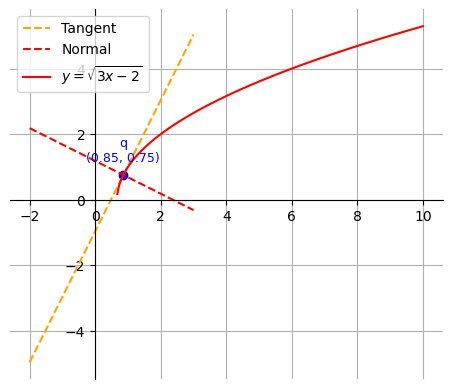
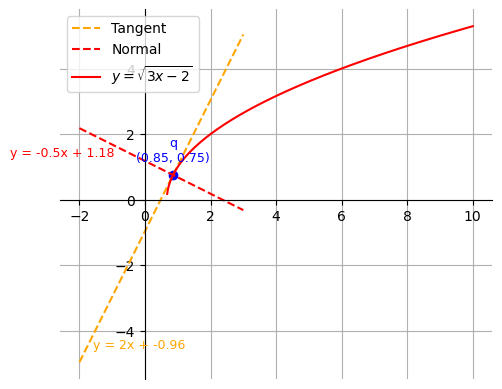
sec

diff --git a/assign15/codes/o1.py b/assign15/codes/o1.py
@@ -31,6 +31,7 @@ B = points[1]
 C = points[2]
 D = points[3]
 q = points[4]
+
 # Setting up the plot
 fig = plt.figure()
 ax = fig.add_subplot(111, aspect='equal')
@@ -47,8 +48,6 @@ def extend_line(point1, point2, factor=2):
     extended_start = point1 - factor * direction
     extended_end = point2 + factor * direction
     return np.array([extended_start, extended_end])
-    
-
 
 # Extend lines
 extended_AB = extend_line(A, B)
@@ -57,8 +56,6 @@ extended_CD = extend_line(C, D)
 # Plot the extended lines with different colors
 plt.plot([extended_AB[0][0], extended_AB[1][0]], [extended_AB[0][1], extended_AB[1][1]], linestyle='--', color='orange', label='Tangent')
 plt.plot([extended_CD[0][0], extended_CD[1][0]], [extended_CD[0][1], extended_CD[1][1]], linestyle='--', color='r', label='Normal')
-
-
 
 # Generate x values for the curve y = sqrt(3x - 2) and extend it to x = 10
 x_curve = np.linspace(0, 10, 400)
@@ -77,6 +74,29 @@ plt.annotate(f'q\n({q[0]:.2f}, {q[1]:.2f})',
              fontsize=9,
              color='blue')
 
+# Add equations for tangent and normal
+tangent_slope = 2  # Replace with the actual slope
+normal_slope = -0.5  # Replace with the actual slope
+tangent_y_intercept = -23.0 / 24.0  # Replace with the actual y-intercept
+normal_y_intercept = 113.0 / 96.0  # Replace with the actual y-intercept
+
+# Annotate tangent line equation
+tangent_eq = f'y = {tangent_slope}x + {tangent_y_intercept:.2f}'
+plt.annotate(tangent_eq,
+             xy=(extended_AB[0][0], tangent_slope * extended_AB[0][0] + tangent_y_intercept),
+             textcoords="offset points",
+             xytext=(10, 10),  # Position offset for visibility
+             fontsize=9,
+             color='orange')
+
+# Annotate normal line equation
+normal_eq = f'y = {normal_slope}x + {normal_y_intercept:.2f}'
+plt.annotate(normal_eq,
+             xy=(extended_CD[0][0], normal_slope * extended_CD[0][0] + normal_y_intercept),
+             textcoords="offset points",
+             xytext=(-50, -20),  # Position offset for visibility
+             fontsize=9,
+             color='red')
 
 # Customize the plot appearance
 ax = plt.gca()
